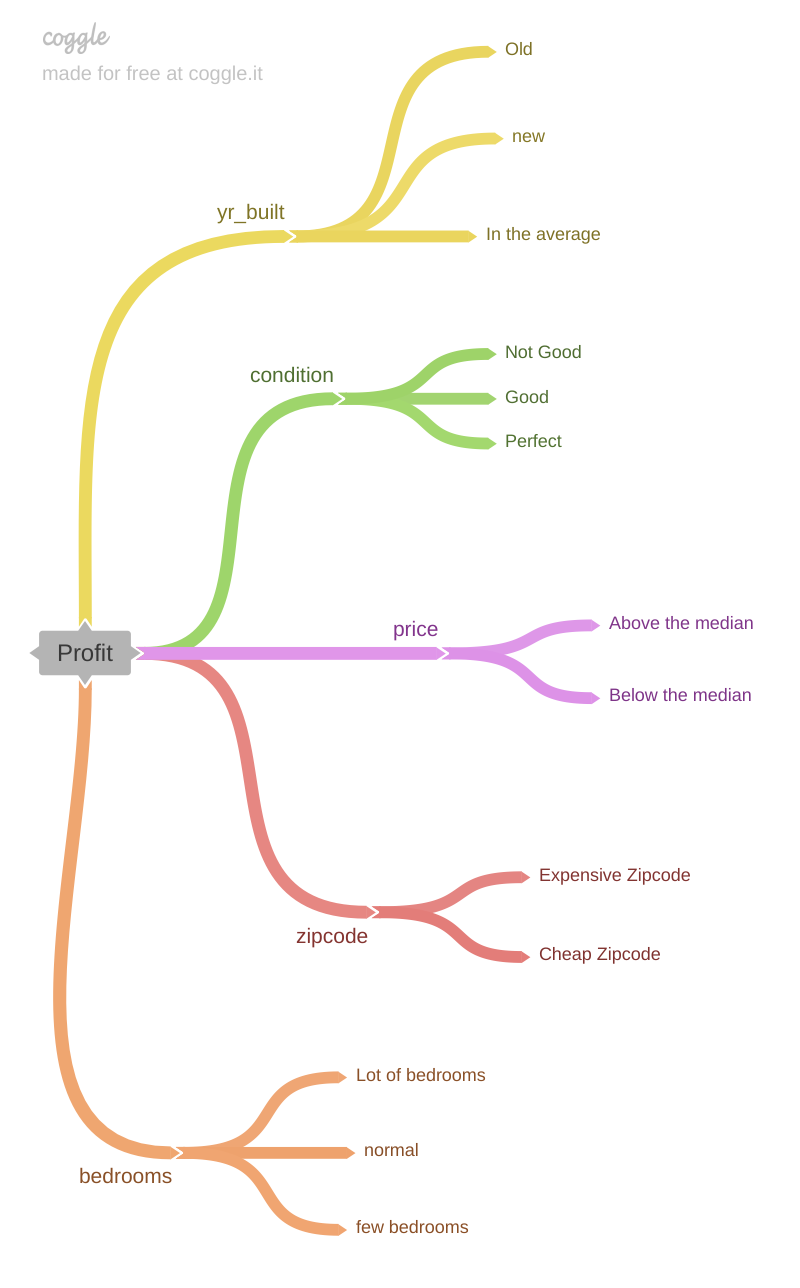
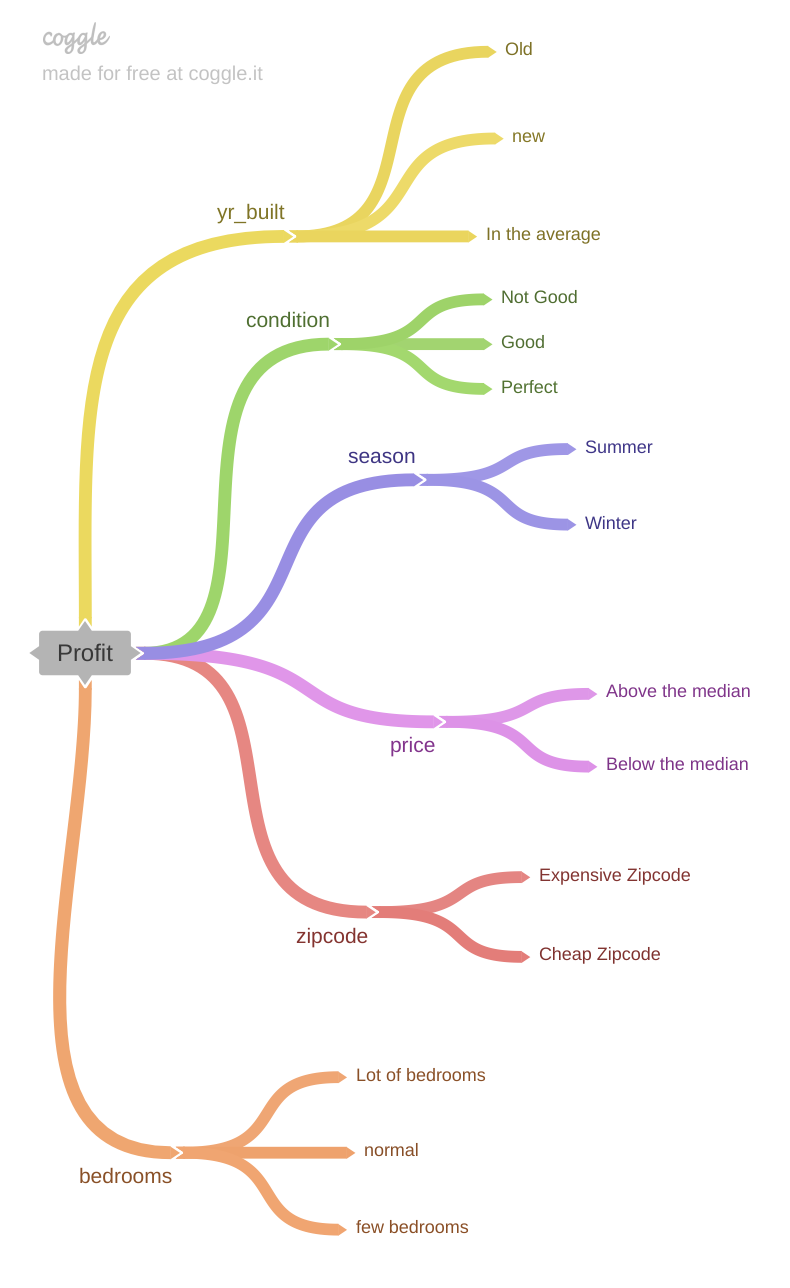
add hypothesis and fill zipcode_median_price column

diff --git a/Analysis.py b/Analysis.py
@@ -6,6 +6,7 @@ import pandas as pd
 import numpy as np
 import seaborn as sns
 # from matplotlib import pyplot as plt
+from IPython.display import Image
 
 # 2.0 Helper functions
 
@@ -25,7 +26,7 @@ portifolio = portifolio[['id', 'price', 'zipcode', 'date', 'condition', 'yr_buil
 
 print( 'number of Rows: {}'.format( portifolio.shape[0] ) )
 print( 'number of Rows: {}'.format( portifolio.shape[1] ) )
-
+print('----------------------------\n')
 ## 4.0.2 Data Types
 
 portifolio['date'] = pd.to_datetime(portifolio['date'])
@@ -34,6 +35,7 @@ print( portifolio.dtypes )
 ## 4.0.3 Check NA
 
 print(portifolio.isna().sum())
+print('----------------------------\n')
 
 ## 4.0.5 Removing Outliers
 
@@ -70,14 +72,45 @@ dfDesc = pd.concat( [ d2, d3, d4, ct1, ct2, d1, d5, d4 ] ).T.reset_index()
 dfDesc.columns = ['attributes', 'min', 'max', 'range', 'mean', 'median', 'std', 'skew', 'kurtosis']
 
 print(dfDesc)
+print('----------------------------\n')
 
 ## 4.0.8 Feature engeneering
 
-portifolio['median_price'] = 0
-portifolio['status'] = 'NA'
-portifolio['season'] = 'StdSeason'
-portifolio['sell_price'] = 0
+### 4.0.8.1 hypothesis to validate
+    # 1. does the season that you sell influence profit?
+    # 2. the valuation of the zipcode influences the price of the property?
+    # 3. if the condition of the property is bad, is it devalued?
+    # 4. are older properties cheaper?
+    # 5. are non-renovated properties cheaper?
+
+### 4.0.8.2 crating columns
 portifolio['profit'] = 0
+portifolio['status'] = 'NA'
+portifolio['sell_price'] = 0
+
+portifolio['zipcode_median_price'] = 0
+
+# grouping by zipcode
+
+medianbyZipCode = portifolio[['price', 'zipcode']].groupby('zipcode').median().reset_index()
+
+# comparing properties by median of zipcode
+
+# print(portWithFilter.columns)
+
+
+for i in range(len(portifolio)):
+    for j in range( len(medianbyZipCode) ):
+        if ( portifolio.iloc[i, 2] == medianbyZipCode.loc[j, 'zipcode']):
+            portifolio.iloc[i, 8] = medianbyZipCode.loc[j, 'price']
+            continue
+
+
+portifolio['season'] = 'StdSeason'
+
+
+
+
 
 # 5.0 Data Exp
 
